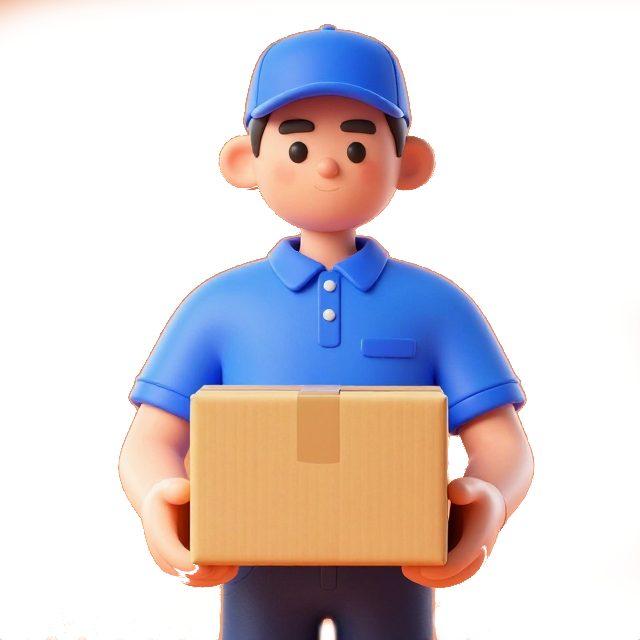
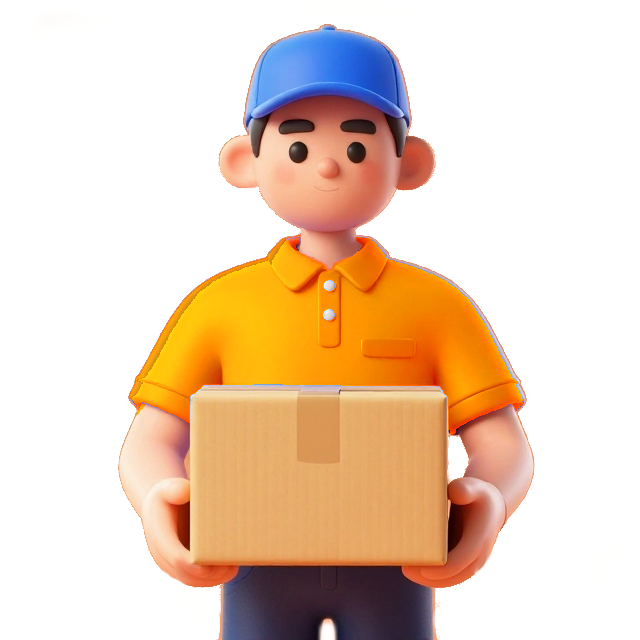
HIR-65 főoldalon a munkás kép lecserélve egy jobb képre

diff --git a/HIR_frontend/src/app/components/system/home/home.component.html b/HIR_frontend/src/app/components/system/home/home.component.html
@@ -8,7 +8,7 @@
             </div>
         </div>
         <div class="JobbDiv">
-            <img class="PaliLogo" src="pali2.png" alt="" srcset="">
+            <img class="PaliLogo" src="PostManIcon.png" alt="" srcset="">
             <div class="KulsoGyuruDiv">
                 <div class="BelsoGyuruDiv">
                     <img src="hamer.webp" alt="" srcset="">
